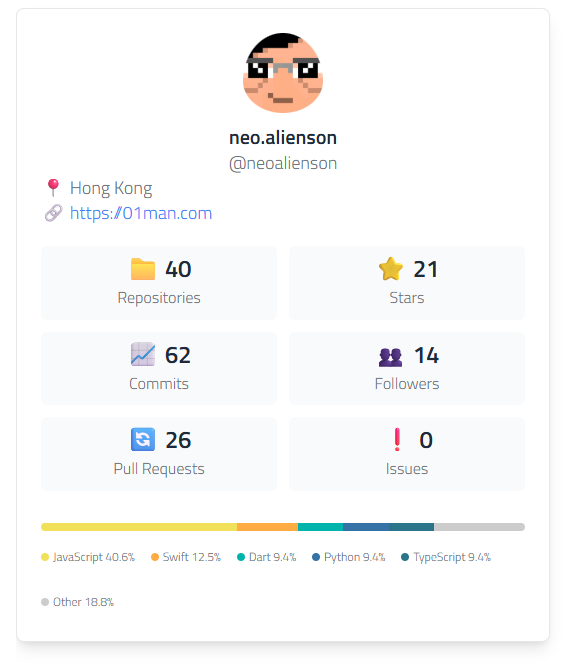
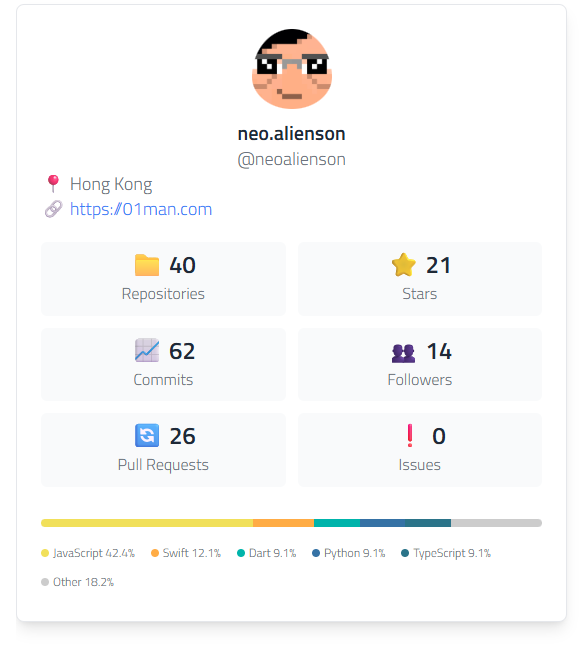
visual fix on language items

diff --git a/github-card.css b/github-card.css
@@ -98,14 +98,14 @@
 .github-card-languages-list {
   display: flex;
   flex-wrap: wrap;
-  gap: 1rem;
+  gap: 0 1rem;
   font-size: 0.75rem;
 }
 
 .github-card-language-item {
   display: flex;
   align-items: center;
-  gap: 0.25rem;
+  gap: 0 0.25rem;
   color: #6b7280;
 }
 
